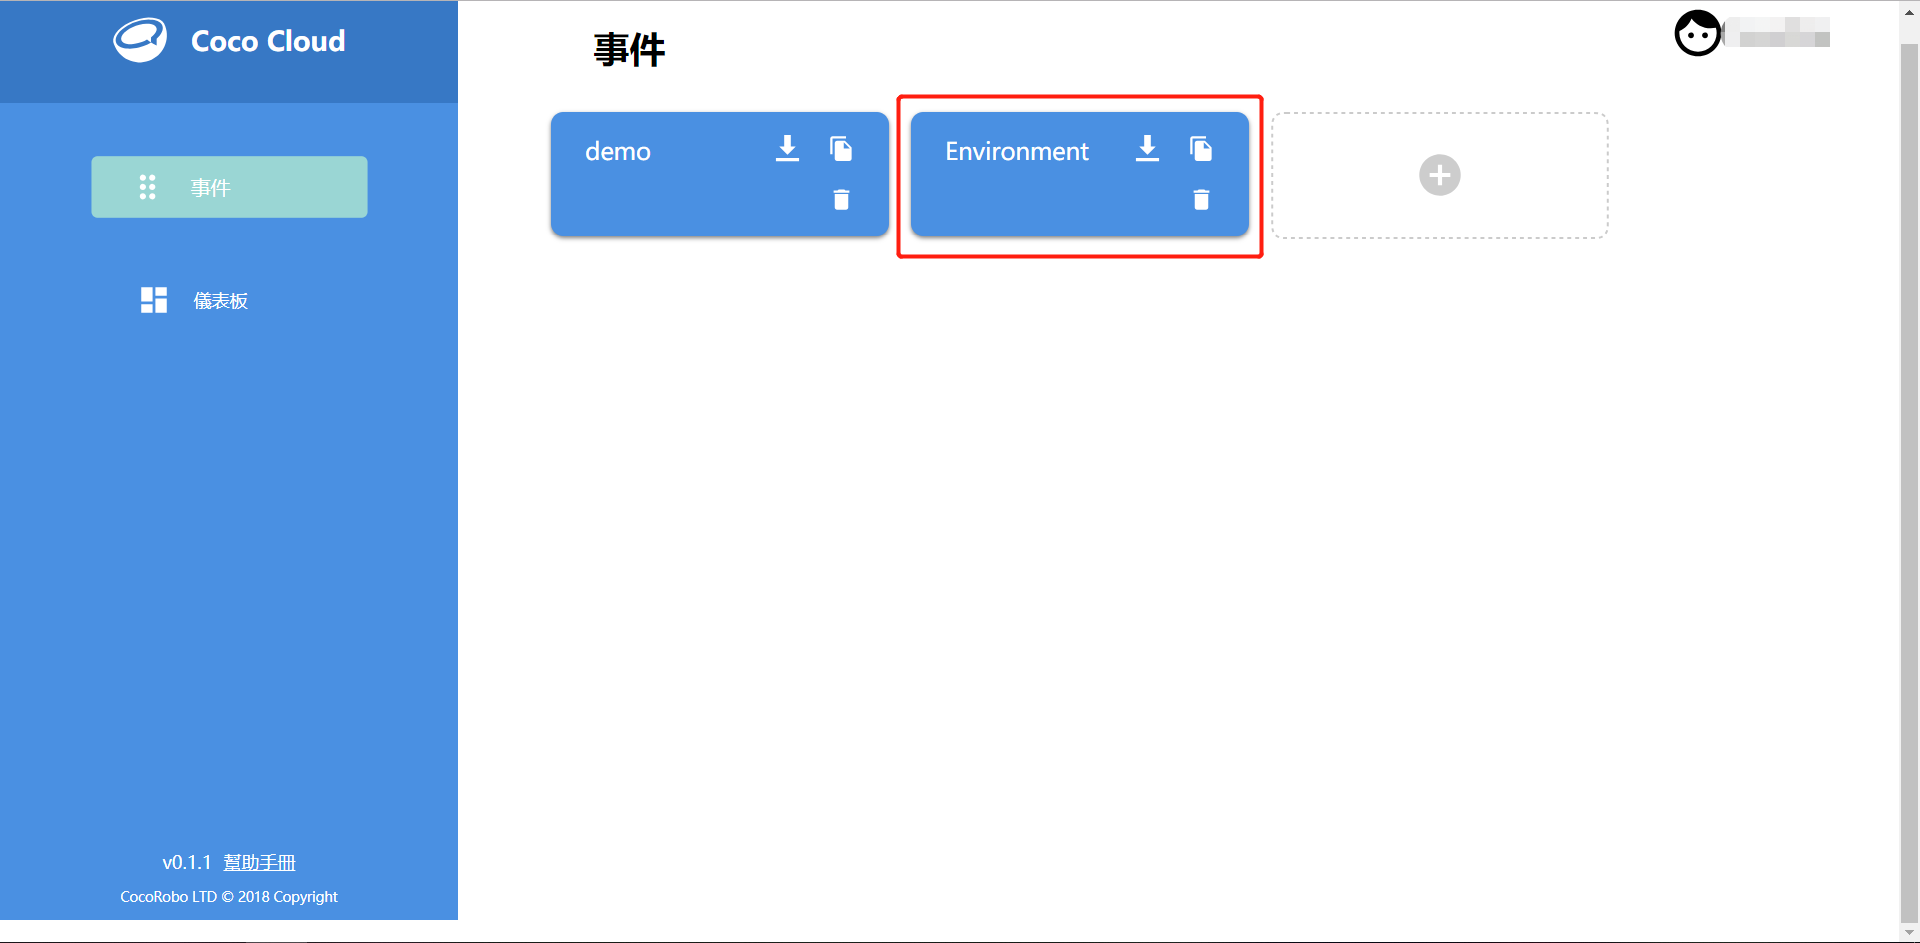
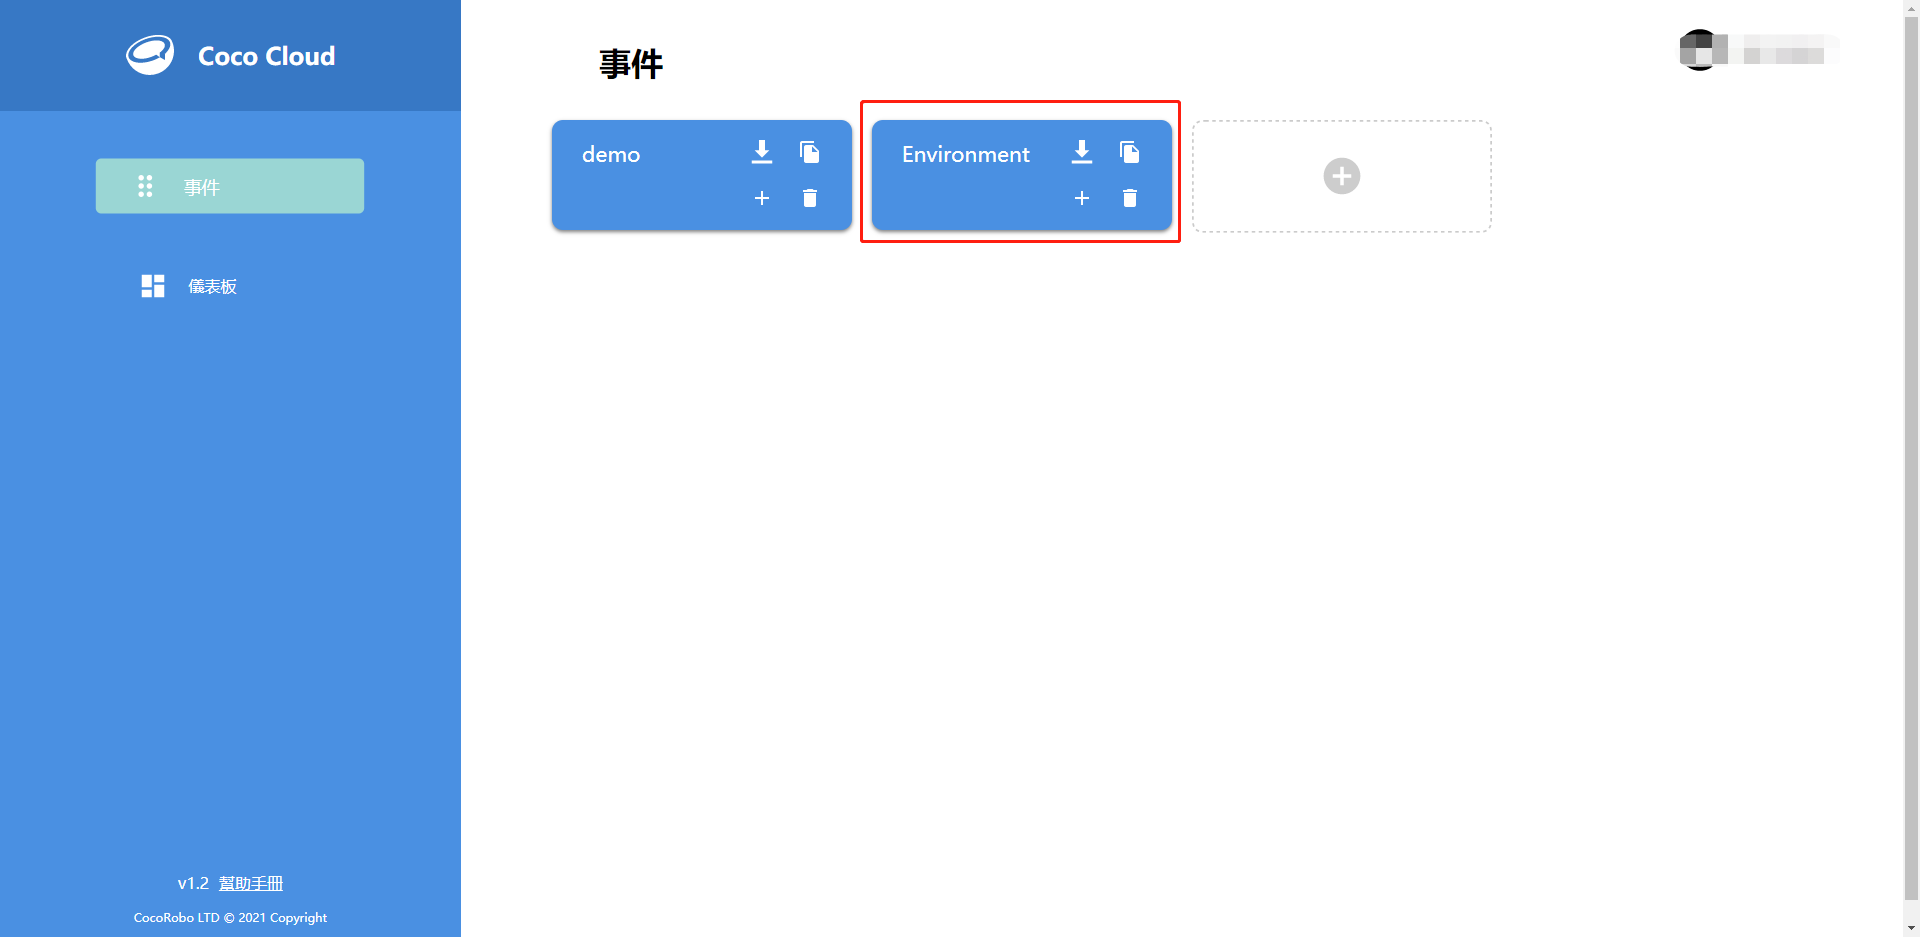
update

diff --git a/cocomod/coco-cloud.md b/cocomod/coco-cloud.md
@@ -59,9 +59,32 @@ Click the copy icon to get the API Key of the event to add value data to the eve
 
 #### Add Attributes
 
-In the first time you add attributes, you can directly send data to Coco Cloud in WiFi mode, and then the attributes of an event are generated.
+There are two ways to add attributes for the first time.
 
-![cocoCloud__events](../media/cocoCloud_property_1_en.png)
+* you can directly send data to Coco Cloud in WiFi mode, and then the attributes of an event are generated.
+
+  ![cocoCloud__events](../media/cocoCloud_property_1_en.png)
+
+* Create directly on Cloud.
+
+  ![cocoCloud__events](../media/cocoCloud_create_property.png)
+
+  ![cocoCloud__events](../media/cocoCloud_create_property_1.png)
+
+  * Click the Add button (+) or the create attribute button.
+
+    ![cocoCloud__events](../media/cocoCloud_create_property_2.png)
+
+    ![cocoCloud__events](../media/cocoCloud_create_property_3.png)
+
+  * Click add more to add multiple properties
+
+    ![cocoCloud__events](../media/cocoCloud_create_property_4.png)
+
+    ![cocoCloud__events](../media/cocoCloud_create_property_5.png)
+
+  * Finally, click the create attribute button to generate the attribute of the corresponding event.
+
 
 ##### Code by CocoBlockly
 
@@ -198,8 +221,8 @@ Create visualization tool for the attribute of the event "Environment" in the "D
 ![wifi__main](../media/cocoCloud_project_1_2.png)
 
 ![wifi__main](../media/cocoCloud_project_1_3.png)
-<!--
----
+
+<!-- ---
 
 ### 項目二
 
@@ -220,7 +243,7 @@ Create visualization tool for the attribute of the event "Environment" in the "D
   程式下載 <a href="../xml/cocoCloud_project2/project2_wifi.xml"
   download >project2_wifi.xml</a>
 
-![wifi__main](../media/cocoCloud_project_2_wifi.png)
--->
+![wifi__main](../media/cocoCloud_project_2_wifi.png) -->
+
 ---
 Updated in August 2019
